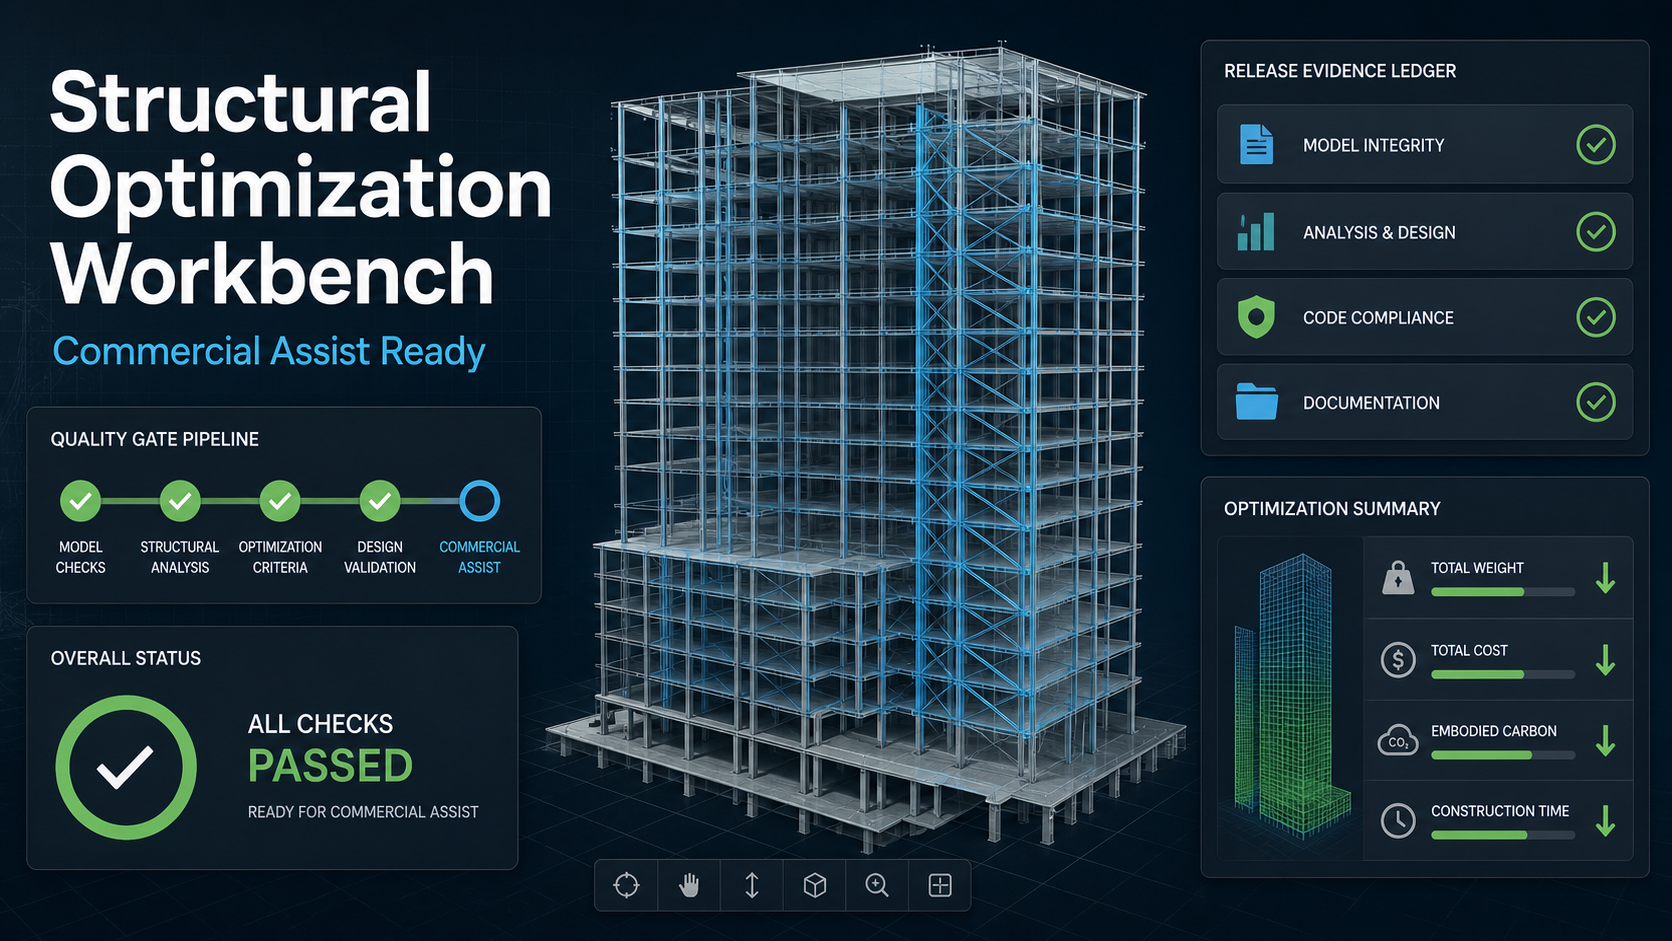
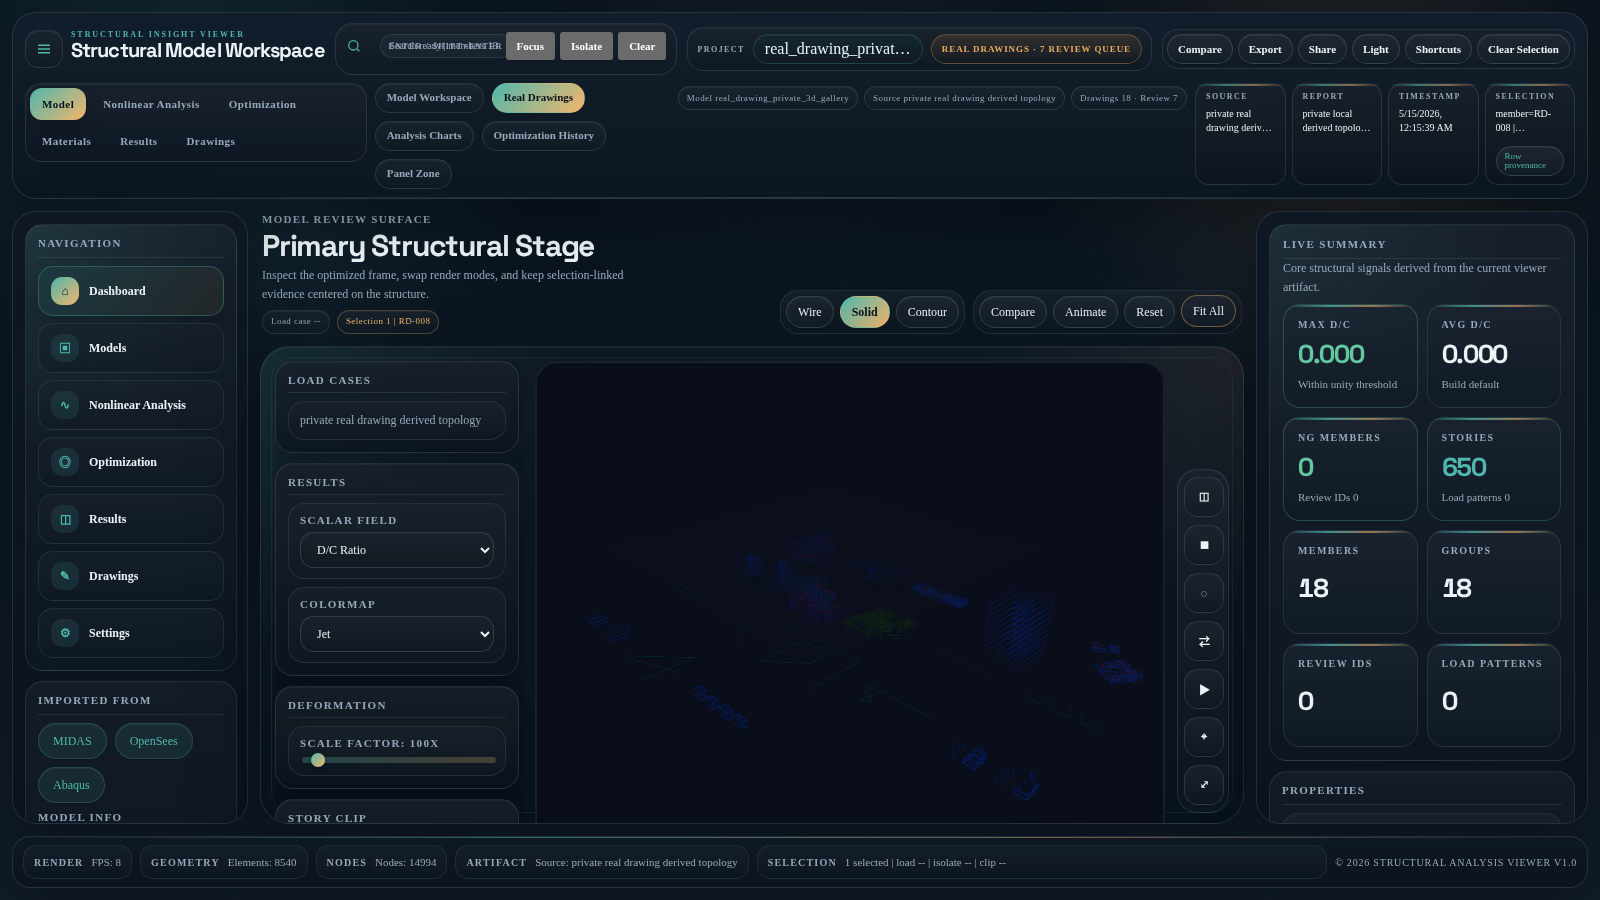
Sync README image with live viewer capture

diff --git a/README.md b/README.md
@@ -1,8 +1,9 @@
 # Structural Optimization Workbench
 
-![Structural Optimization Workbench commercialization status](docs/assets/commercialization-status-card.png)
+![Actual Structural Optimization Workbench viewer capture](docs/assets/commercialization-status-card.png)
 
 Release-facing structural optimization workbench with reproducible P0/P1 quality gates, browser-verified 3D viewer smoke, and bounded engineer-in-loop commercial assist readiness.
+The README image is captured from the actual `src/structure-viewer/index.html` web viewer with `npm run capture:readme-viewer-image`.
 
 ## Documents
 